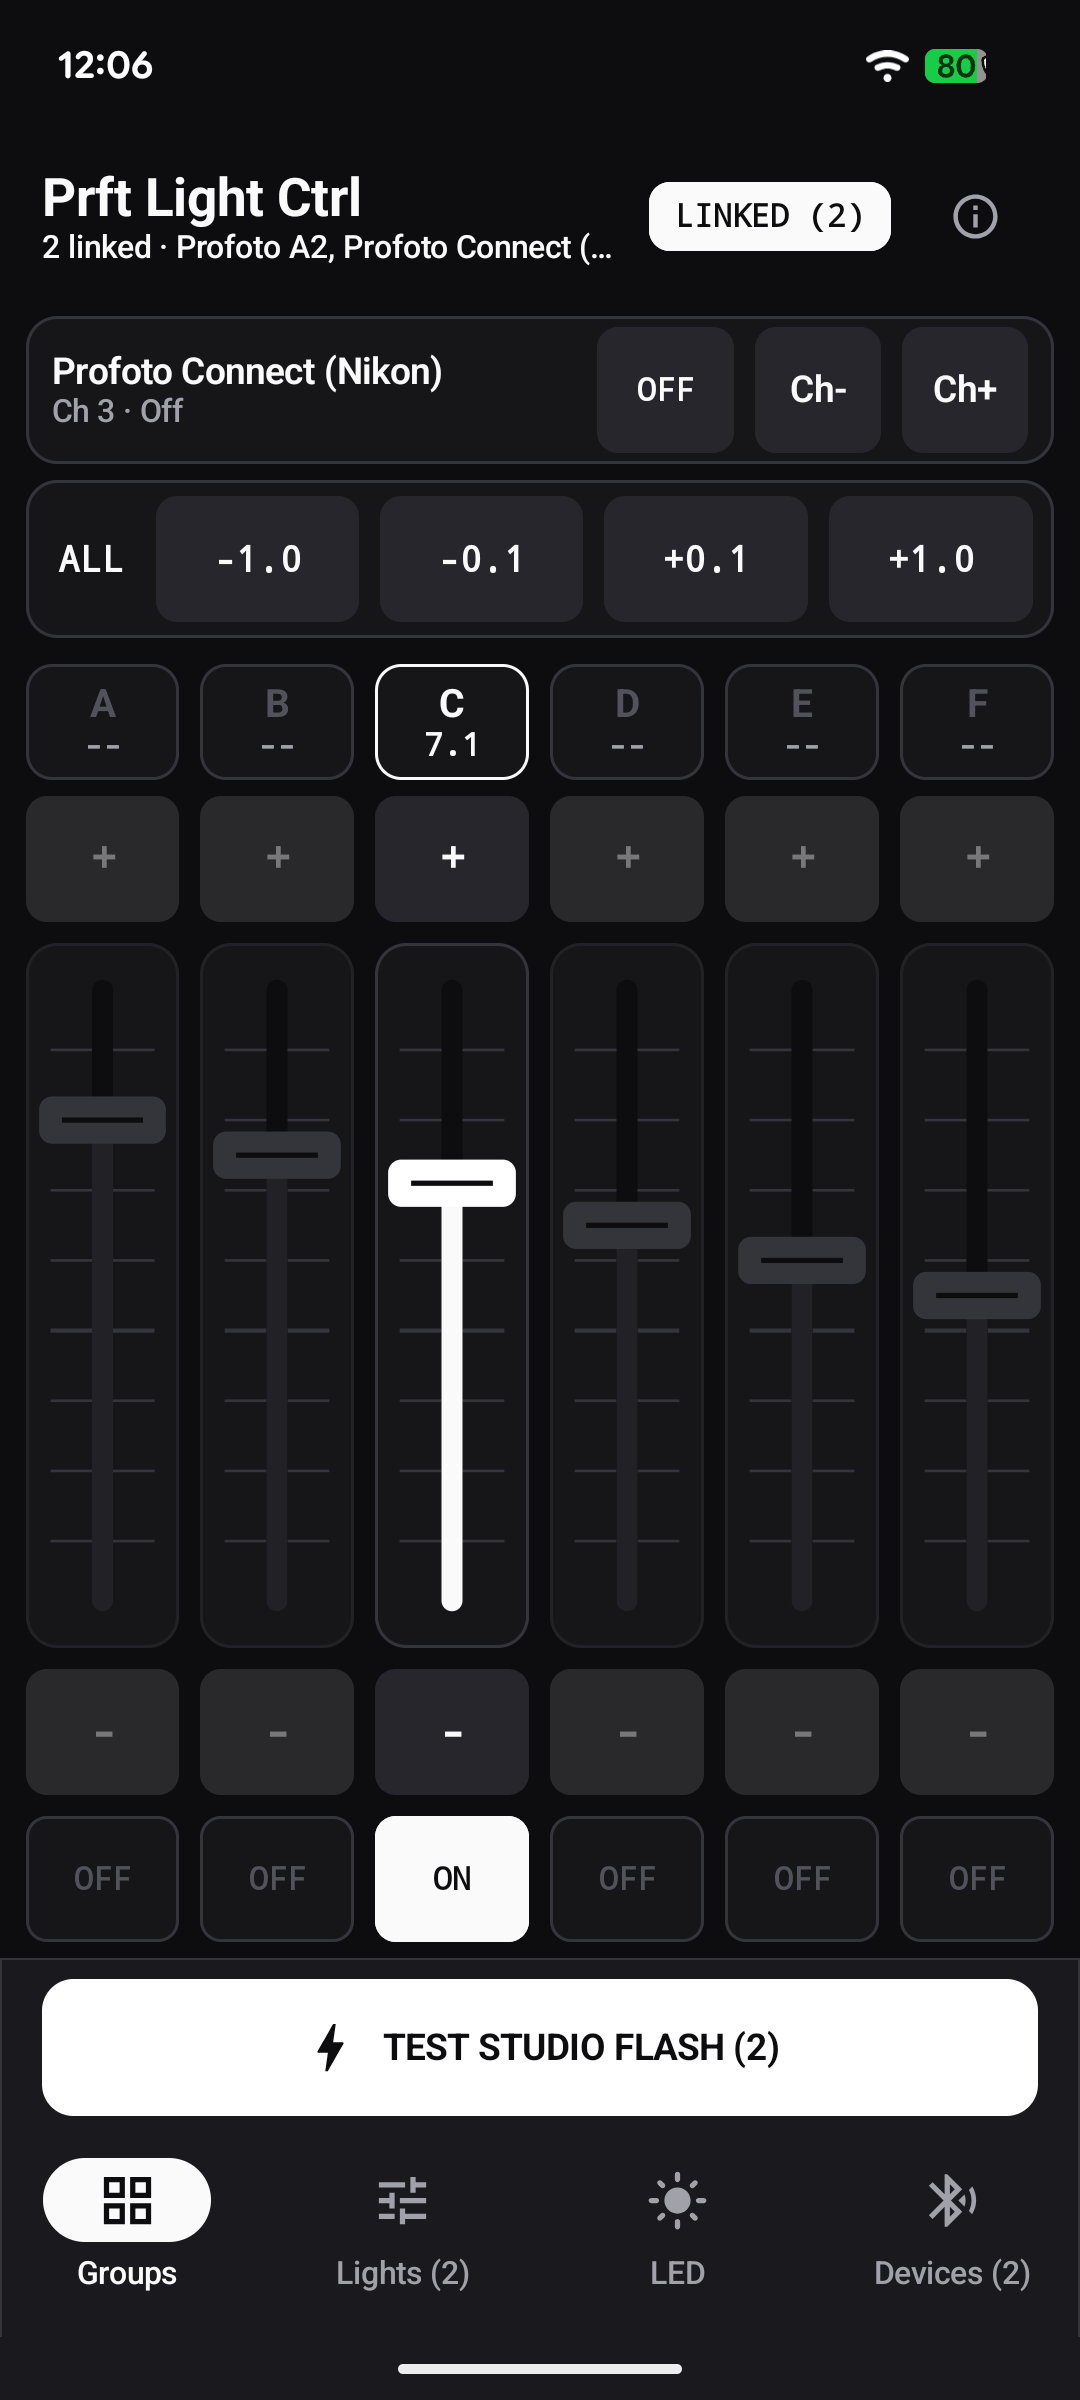
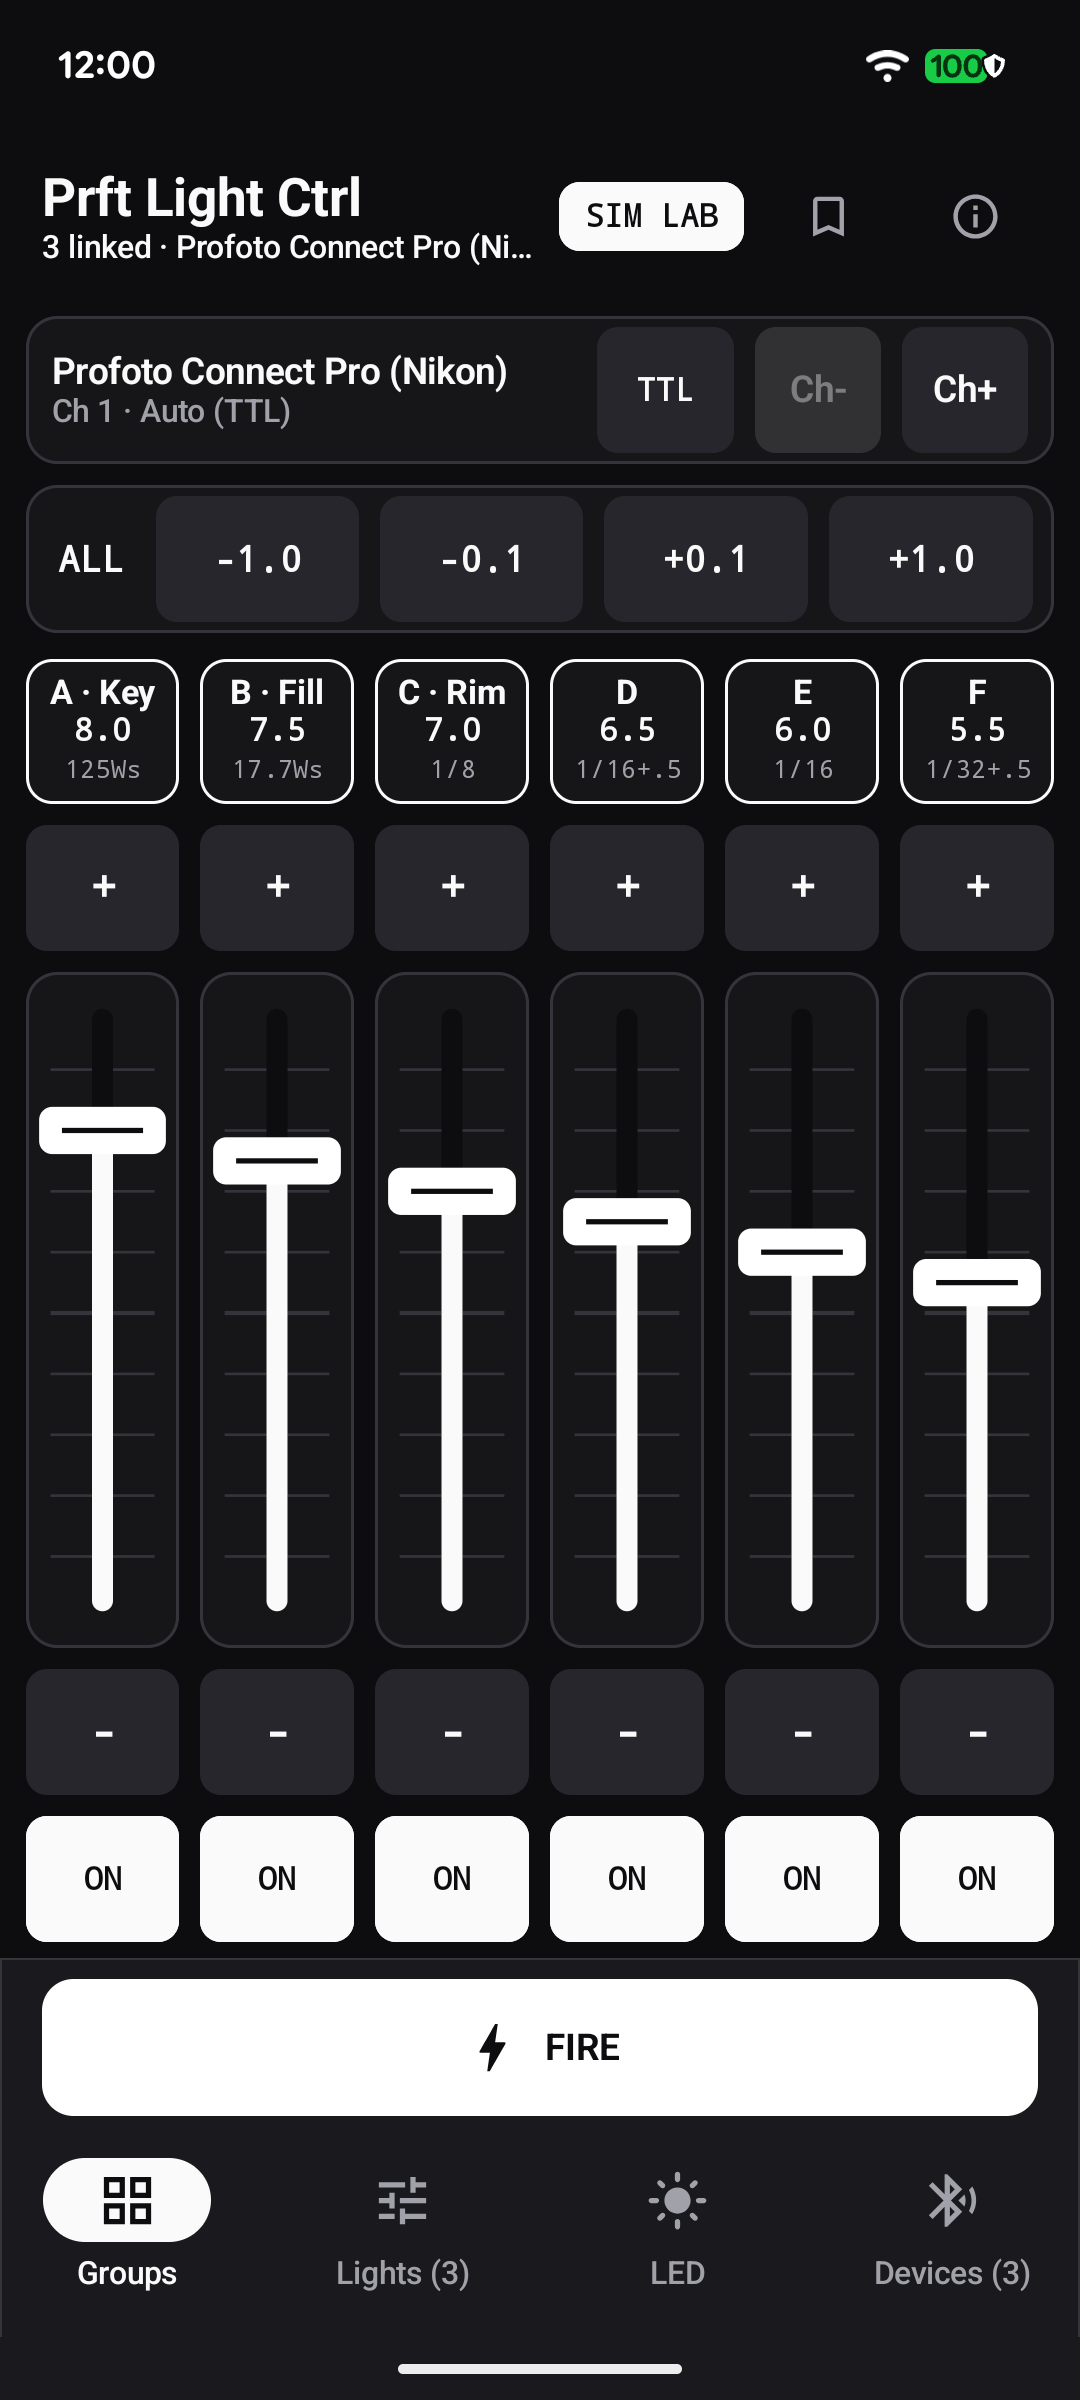
Docs: add v1.5.1 studio screenshots, hardware compatibility, limitations, F-Droid setup & protocol spec link

diff --git a/README.md b/README.md
@@ -1,30 +1,101 @@
 # Prft Light Ctrl (`app.prft.lightctrl`)
 
-Cleanroom native Android Bluetooth Low Energy (BLE) studio lighting controller written in Kotlin and Jetpack Compose, engineered for Android 12–16+ (`API 31+`) phones, tablets, and foldables.
+Privacy-first, 100% offline native Android Bluetooth Low Energy (BLE) studio lighting controller for **Profoto AirX & AirTTL** strobes and remotes. Built in Kotlin and Jetpack Compose for **modern Android (`Android 12–16+`, `API 31+`) phones and tablets** — zero accounts, zero internet access, zero location tracking, and zero bloat.
 
-## Supported Hardware
+## Why Prft Light Ctrl? (Pain Points Solved)
 
-- **Profoto B10X Pro / Plus / B10X** (`ID 143` / `144` — 500 Ws / 250 Ws flash + 3250 lm bi-color `3000–6500 K` continuous light)
-- **Profoto A2** (`ID 36` — 100 Ws flash + LED modeling light)
-- **Profoto Connect Pro** (`ID 161..166` — 100-channel Air 2 / AirX 6-group `A–F` studio remote, incl. vB5 `LE Coded PHY` Air Range mode)
-- **Profoto Connect** (`ID 150..154` — buttonless AirTTL / Manual / Off remote, studio group standby, Air modeling toggle, and master TTL EV trim)
+- **No Account or Cloud Login Wall:** Opens straight to your studio console. Never get locked out of your lights on location or in a basement studio without cell service because an app update signed you out of a cloud account.
+- **100% Offline & Zero Tracking:** Requests **`0` `INTERNET` permission** (physically incapable of telemetry, analytics, or network calls) and uses Android 12+ `neverForLocation` hardware-filtered BLE scanning so GPS / Location permission is **never** requested.
+- **Fast, Reliable Android BLE Reconnects:** Pinned-kit auto-reconnect, foreground `connectedDevice` keepalive (locking your phone does not drop GATT sync), and hardware-filtered `1M` scanning across modern Android phones (Pixel, Samsung One UI, Xiaomi, OnePlus, Sony, Motorola).
+- **Built for Real Studio Workflows:**
+  - **Saved Studio Scenes & Offline JSON Share:** Save named multi-light ratios + modifier notes and recall in one tap, or copy/paste scenes as offline JSON (missing from the official mobile app).
+  - **Named Group Roles (`Key`, `Fill`, `Rim`, etc.):** Label groups directly on the `A–F` faders alongside custom fixture nicknames.
+  - **Dual Power Readout (`Ws` & `1/1..1/512` Fractions):** Optional Watt-second and fractional stop display alongside Profoto's `1–10` scale so mixing `100 Ws`, `250 Ws`, and `500 Ws` heads stays intuitive.
+  - **Portrait One-Hand + Landscape / Tablet Console:** Full 6-channel `A–F` fader bank (`0.1–10.0` stop range) with thumb-zone `FIRE` button, optional **Volume Key `FIRE` trigger** for eyes-free light-meter walks, and native Landscape `NavigationRail`.
+  - **Complete Remote & Strobe Controls:** `Connect Pro` software `Auto (TTL)` / `Manual` switch, Per-Group `A–C` TTL ratio biases, Remote Hardware Settings (`1st/2nd Curtain`, `X-Sync`, `HSS`, `Global Shutter`, `AF-Assist`, `RF Power P1–P4`, `1–100` fast channel picker), and live strobe power fusion even when paired with a buttonless `Profoto Connect`.
 
-## Key Features (`v1.5.1`)
+## Screenshots
 
-- **Studio Charcoal UI & Adaptive Portrait + Landscape Console:** Matte charcoal surface hierarchy (`#0D0D0F`–`#222226`) with Portrait `ThumbZoneBottomDock` and Landscape/Tablet `NavigationRail` + single-screen 6-fader console.
-- **4-Tab Studio Workflow (`Groups / Lights / LED / Devices`):** Non-scrolling 6-channel group fader bank (`A–F`, full `0.1–10.0` stop precision floor), Named Group Roles (`Key`, `Fill`, `Rim`, etc.), Dual Power Readout (`Ws` & fractional `1/1..1/512` stops alongside `1–10` scale), Saved Studio Scenes with JSON clipboard import/export, and `FIRE` CTA + foreground hardware Volume Key trigger.
-- **Full Remote & Monolight Parity:** `Connect Pro` software `Auto (TTL)` / `Manual` toggle (`op=144`), Per-Group TTL EV ratio biases (`Groups A–C`, `op=148`), Remote Settings sheet (Sync Mode `1st/2nd/X-Sync/HSS/Global Shutter`, AF-Assist, RF Power `P1–P4`, Auto-Off Sleep, Display Brightness, Battery Chemistry, Control Sounds, fast `1–100` Channel Picker), Monolight Zoom (`op=161..163`) & Ready Signal (`op=217`), and Pinned Kit auto-reconnect.
-- **Samsung One UI + Pixel Hardened Native BLE Engine:** Hardware-filtered `1M` scanning across SIG `0xFDBB` Service Data/UUID, `AUTH_SERVICE_UUID` (`bbd75314-...`), and legacy `1d944db4-...` (`neverForLocation`-compliant on One UI 7+), async `onScanFailed` self-healing fallback, OS-connected/bonded GATT hydration, `MTU 255` negotiation, `"Profoto Client"` session authentication, and out-of-band `FIRE` priority dispatch.
-- **Hard Bootloader / DFU Quarantine:** Compile-time and runtime blocklists prevent any read/write access to firmware-update GATT UUIDs (`f7bf3564-...`) or DFU opcodes (`46`, `142`, `154`).
-- **Zero Trackers / 100% Offline:** No `INTERNET` permission, no analytics, no proprietary SDKs, and no simulator code in release builds.
+### Landscape & Tablet 6-Fader Console
+
+<p align="center">
+  <img src="fastlane/metadata/android/en-US/images/sevenInchScreenshots/1.png" width="100%" alt="Prft Light Ctrl Landscape 6-Fader Studio Console" />
+</p>
+
+### 4-Tab Studio Workflow (`Groups` · `Lights` · `LED` · `Devices`)
+
+| Groups (`A–F` Fader Bank) | Lights (Monolight Deck) | LED (Bi-Color & Modeling) | Devices & Preferences |
+| :---: | :---: | :---: | :---: |
+| <img src="fastlane/metadata/android/en-US/images/phoneScreenshots/1.png" width="195" alt="Groups 6-channel fader console with Key, Fill, Rim roles and Ws/stop readouts" /> | <img src="fastlane/metadata/android/en-US/images/phoneScreenshots/2.png" width="195" alt="Profoto B10X Pro/Plus flash energy, Ws readout, and modeling controls" /> | <img src="fastlane/metadata/android/en-US/images/phoneScreenshots/4.png" width="195" alt="Continuous and modeling LED deck with 3000-6500K color temperature and brightness" /> | <img src="fastlane/metadata/android/en-US/images/phoneScreenshots/7.png" width="195" alt="Profoto BLE scanner and local-only studio preferences" /> |
+
+### AirX / AirTTL Remotes & Saved Studio Scenes
+
+| `Connect Pro` (`Auto TTL` / `Manual`) | Remote Hardware Settings | Studio Scenes & Presets |
+| :---: | :---: | :---: |
+| <img src="fastlane/metadata/android/en-US/images/phoneScreenshots/3.png" width="265" alt="Profoto Connect Pro Auto TTL, Manual, 100-channel picker, and per-group TTL ratio bias" /> | <img src="fastlane/metadata/android/en-US/images/phoneScreenshots/5.png" width="265" alt="Remote hardware settings sheet with Curtain Sync, HSS, Global Shutter, AF-Assist, and RF Power" /> | <img src="fastlane/metadata/android/en-US/images/phoneScreenshots/6.png" width="265" alt="Saved studio scenes and presets bottom sheet with JSON clipboard import and export" /> |
+
+## Hardware Compatibility
+
+### 1. Physically Verified (Direct Bluetooth / BLE)
+- **Profoto B10X Plus / Pro, B10X, B10 Plus & B10** (`ID 140–144` — `250 Ws` / `500 Ws` flash, `3000–6500 K` bi-color continuous LED, Freeze/Normal, Ready signals)
+- **Profoto A2** (`ID 36` — `100 Ws` flash + LED modeling light)
+- **Profoto Connect Pro** (`ID 161–166`, all camera mounts — 100-channel Air 2 / AirX 6-group `A–F` remote, software `Auto TTL` / `Manual` switch, Per-Group `A–C` TTL ratios, Sync/HSS/Global Shutter, AF-Assist & RF Power)
+- **Profoto Connect** (`ID 150–154`, all camera mounts — AirTTL / Manual / Off remote, studio group standby, Air modeling toggle & TTL EV trim)
+
+### 2. Protocol-Compatible Direct BLE (Catalog-Mapped, Untested on Physical Units)
+- **AirX Strobes & Packs (`A10`, `B20`, `B30`, `D30`, `Pro-D3 750/1250`, `Pro-B3`, `Pro-11`, `C1` / `C1 Plus`):** Mapped in `HardwareCatalog` using standard Profoto PUP flash, group, channel, modeling, and test-fire opcodes (pack-specific AC charge-rate menus and `11.0` stop ceiling are not exposed).
+
+### 3. Indirect Radio Control via `Connect Pro` or `Connect` (Older Non-Bluetooth Air Strobes)
+- **Pre-Bluetooth Air / AirTTL Strobes (`B1`, `B1X`, `B2`, `D1`, non-AirX `D2`, `Pro-10`):** These older strobes have no Bluetooth chip inside the head, so no phone app can connect to them directly. Connect a **`Connect Pro`** or **`Connect`** remote to `Prft Light Ctrl` over Bluetooth on the matching Air channel (`Ch 1–8` / `1–20`) to control their groups and test-fire over `2.4 GHz` Air radio.
+
+### 4. Not Supported
+- **Cinema RGBWW / DMX Fixtures (`L600C`, `L600D`, `L600X`, `L1600D`, `ProPanel 3x2`):** Dedicated HSI / RGBW / Gel / SFX / CRMX / Fan controls are not implemented.
+- **Pre-Bluetooth `Air Remote TTL` (LCD triggers prior to `Connect`):** `2.4 GHz` radio only, no Bluetooth hardware.
+
+## Known Limitations
+
+- **Lighting Controller Only (No Smartphone Camera Sync):** Controls flash energy, TTL ratios, continuous/modeling LEDs, and test-fires strobes (`FIRE`), but does **not** capture photos or sync smartphone camera frames with flash.
+- **No Firmware Updates:** Because the app is 100% offline (`0` `INTERNET` permission) and isolates DFU/bootloader GATT characteristics to prevent mid-shoot bricking, it cannot check for or install device firmware updates. Use Profoto's official desktop USB updater (for USB-C units like `B10/B10X`, `A2`, `Connect`) or temporarily use the official `Profoto Control` app (required for portless remotes like `Connect Pro`) when a firmware update is needed.
+- **Exclusive BLE Link Per Fixture:** Profoto lights and remotes accept one active BLE GATT client at a time. Force-close the official `Profoto Control` app (or disconnect any second phone) before scanning, and connect inside **`Prft Light Ctrl -> Devices`** rather than Android's system Bluetooth pairing menu.
+- **Buttonless `Profoto Connect` Hardware Ring:** On non-Pro `Connect`, `Off / Auto / Manual` is controlled by the physical rotation ring and cannot be switched in software; without individual strobes also linked over BLE, non-Pro `Connect` sends relative power shifts rather than displaying per-group absolute readouts.
+- **Android 11 and Older Not Supported:** Supports modern **Android 12 through Android 16+** (`API 31+`). Android 11 and older (`API <= 30`) lack location-free (`neverForLocation`) BLE permissions.
+
+## Install & Auto-Updates
+
+### Option 1 — F-Droid / Droid-ify / Neo Store (Recommended Auto-Updates)
+
+1. Install [**Official F-Droid (`f-droid.org`)**](https://f-droid.org/) (direct APK: [`F-Droid.apk`](https://f-droid.org/F-Droid.apk)), [**Droid-ify**](https://github.com/Droid-ify/client/releases/latest), or [**Neo Store**](https://github.com/NeoApplications/Neo-Store/releases/latest).
+2. In F-Droid, open **Settings &rarr; Repositories &rarr; +** and **scan this QR code** using F-Droid's **Scan QR** button:
+
+   <a href="https://github.com/nomid-ws/fdroid#setup-instructions">
+     <img src="https://raw.githubusercontent.com/nomid-ws/fdroid/main/qr-fdroid.svg" width="180" alt="Scan inside F-Droid (Settings -> Repositories -> + -> Scan QR) to add NoMid Repository" />
+   </a>
+
+   *Or copy & paste this pinned Repository URL into **Settings &rarr; Repositories &rarr; +** (F-Droid auto-fills the URL and signing key from your clipboard):*
+   ```text
+   https://raw.githubusercontent.com/nomid-ws/fdroid/main/repo?fingerprint=5B8E20619C48FD8F04A0174B4AE00D2C6AE24834B85EA77F57C5456AC9802532
+   ```
+3. Pull down to refresh repositories in F-Droid, search **Prft Light Ctrl**, and tap **Install**.
+
+### Option 2 — Obtainium
+
+- [**Add to Obtainium**](https://apps.obtainium.imranr.dev/redirect?r=obtainium://add/https://github.com/nomid-ws/Prft_Lght_Ctrl) — or paste `https://github.com/nomid-ws/Prft_Lght_Ctrl` into [Obtainium](https://github.com/ImranR98/Obtainium/releases/latest) to track signed GitHub Releases directly.
+
+### Option 3 — Direct APK Sideload
+
[1 lines of base64/hex data omitted]
+
+## Protocol Specification
+
+- [**Profoto BLE & PUP Wire Protocol Specification (`docs/PROFOTO_BLE_PROTOCOL_SPEC.md`)**](docs/PROFOTO_BLE_PROTOCOL_SPEC.md) — Cleanroom byte-level specification covering GATT services (`0xFDBB` / `1d944db4-...`), client authentication handshake, rolling `counter % 240` + `uint16_le` packet framing, `AllSettingsV2` TLV state synchronization, and complete PUP control/telemetry opcodes.
 
 ## Project Structure
 
 - `:core:protocol` — Pure JVM PUP wire frame codec (`counter % 240` + `uint16_le` framing, `AllSettingsV2` TLV parser, hardware catalog).
 - `:core:ble` — Android `BluetoothGatt` 10-stage connection state machine & foreground `connectedDevice` service.
 - `:core:domain` — Multi-light `StudioOrchestrator`, shared AirX channel collision guard, and 6-group `A–F` fader state engine.
-- `:app` — Responsive Jetpack Compose studio UI for portrait, landscape, tablet, and foldable postures.
-- [`docs/PROFOTO_BLE_PROTOCOL_SPEC.md`](docs/PROFOTO_BLE_PROTOCOL_SPEC.md) — Cleanroom Profoto BLE GATT & PUP wire protocol specification.
+- `:app` — Responsive Jetpack Compose UI for Portrait phones and Landscape / Tablet postures.
+- `docs/PROFOTO_BLE_PROTOCOL_SPEC.md` — BLE GATT & PUP binary wire protocol reference.
 
 ## Build & Test
 
